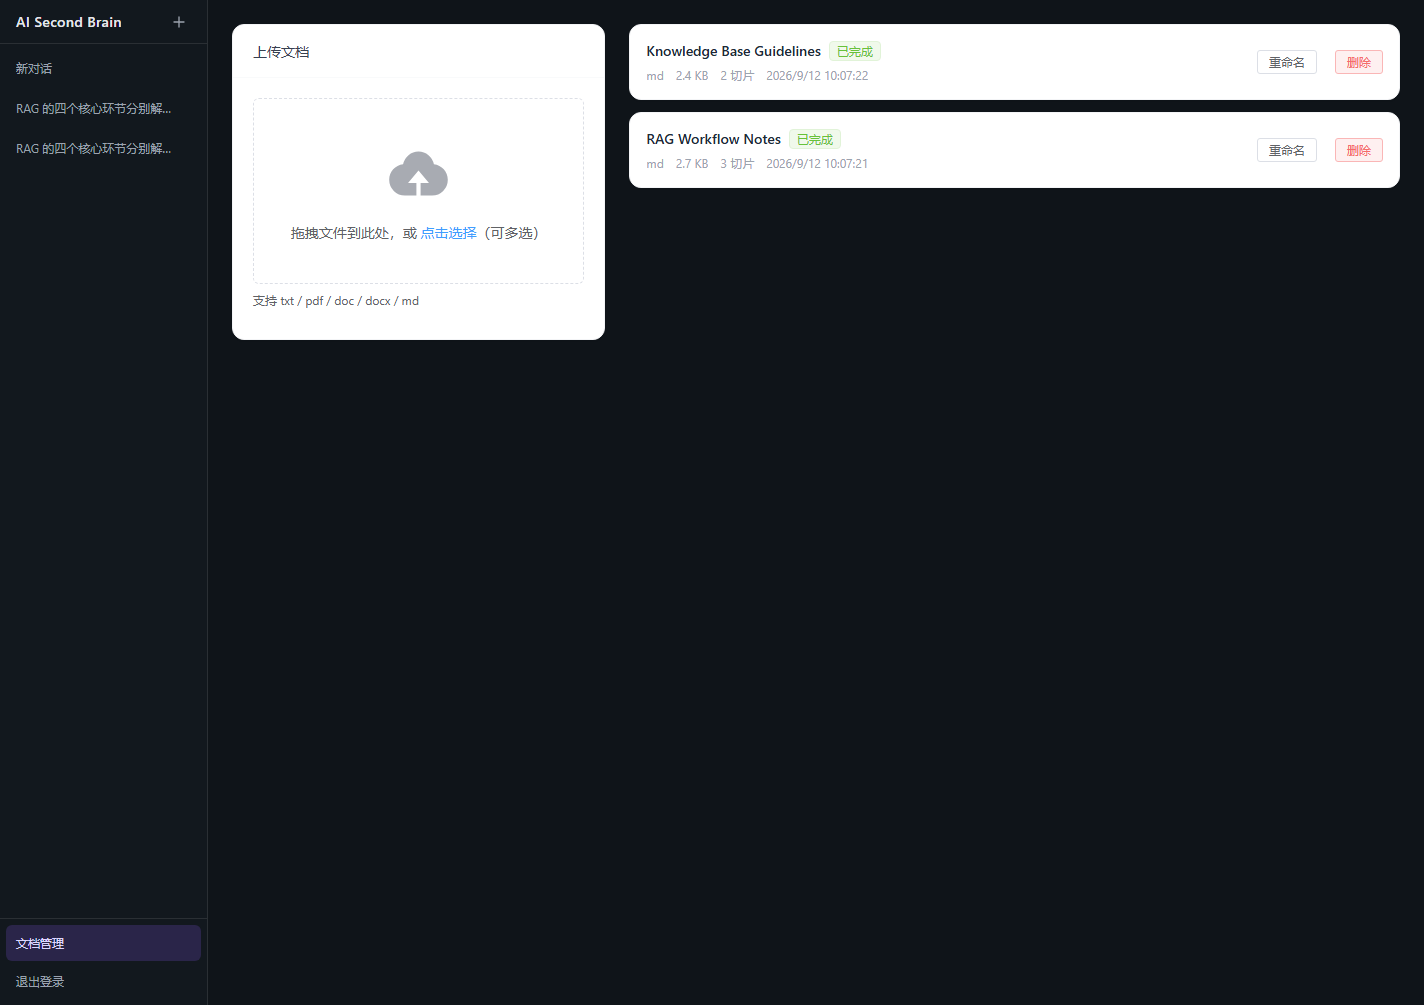
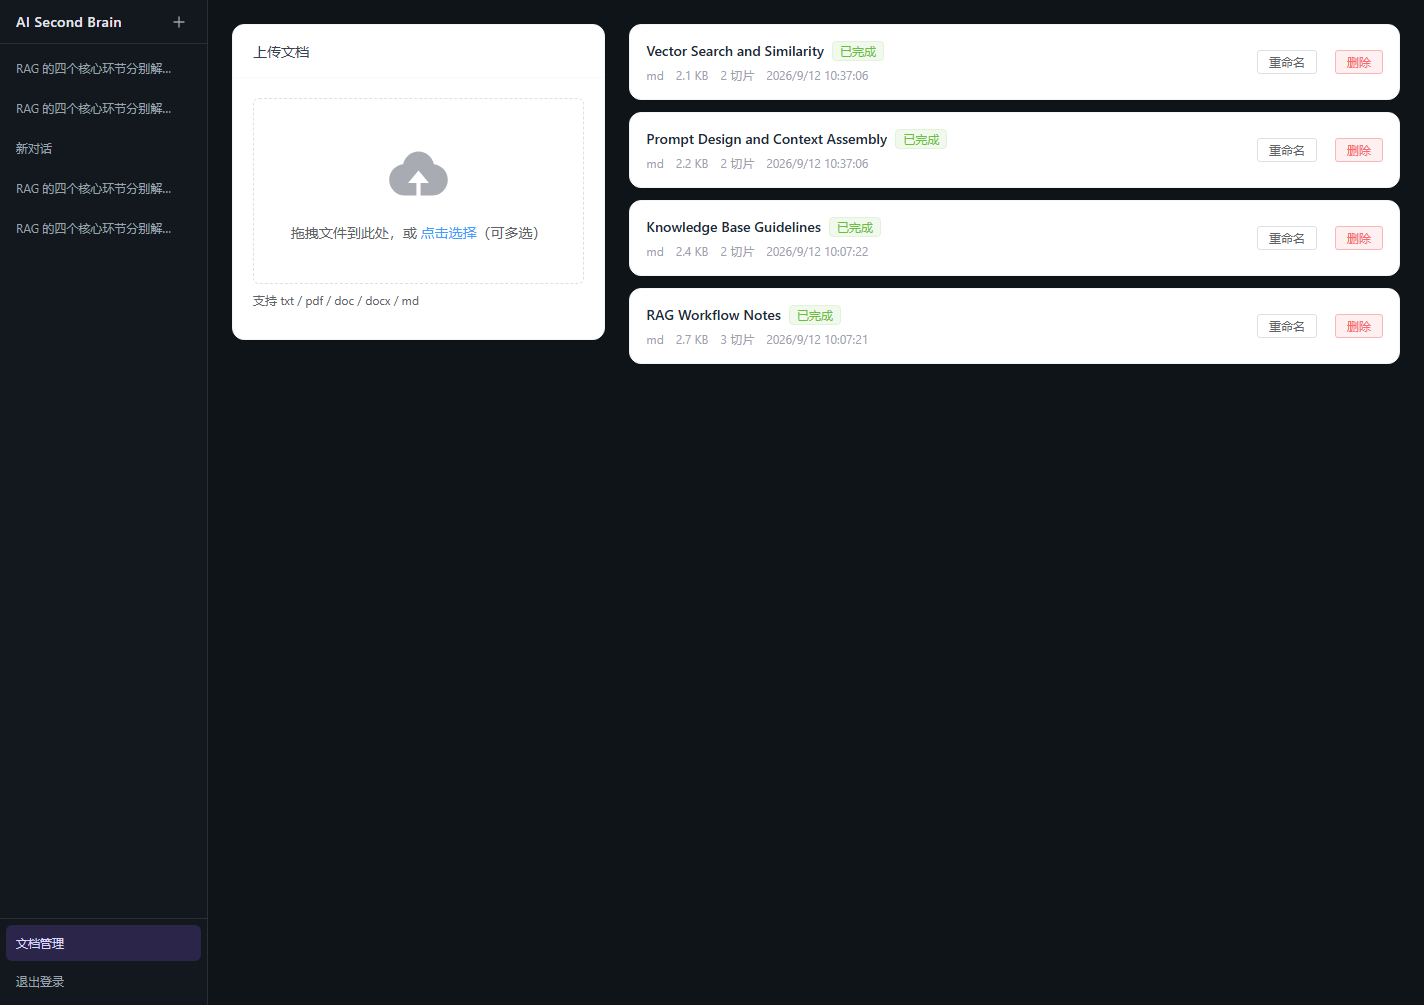
feat: add the AI Second Brain retrieval chat screenshot

diff --git a/project/frontend/src/App.vue b/project/frontend/src/App.vue
@@ -3,7 +3,7 @@ import { computed, onMounted, onUnmounted, ref } from 'vue'
 
 const fallbackProjects = [
   { id: 1, slug: 'ai-translator', title: 'LexiFlow', summary: '面向英语学习者的无广告翻译与生词学习工具，把一次翻译延展为可持续的学习闭环。', background: '翻译、收藏、复习和统计共同组成学习闭环。', outcome: '已实现核心闭环，等待补齐正式发布证据。', role: '产品设计、全栈开发、部署与验证规划', projectType: 'AI 产品 / 学习工具', project_type: 'INDEPENDENT', status: '已实现 · 待补正式发布证据', tags: ['FastAPI', 'Vue 3', '学习闭环'], image: '/assets/v5/translator-home.png', visualKind: 'screenshot', evidence: '3 张已核验截图 · 引擎降级提示的证据待补', gallery: [{ src: '/assets/v5/translator-home.png', step: 'STEP 01 / 入口', caption: '首页「每日一词」。把工具的入口前置成每天可以回访的学习动作，而不是一次性的翻译框。' }, { src: '/assets/v5/lexiflow-translate-result.png', step: 'STEP 02 / 核心链路', caption: '真实翻译结果。输入一句英文，模型返回中文译文，下方列出可继续查词的高频词。截图取自本地实跑，不是设计稿。' }, { src: '/assets/v5/lexiflow-quota-limit.png', step: 'STEP 03 / 边界处理', caption: '匿名游客每日 3 次免费翻译，用完后不静默失败，而是引导登录。配额按匿名标识独立计数，登录用户不受限。' }] },
-  { id: 2, slug: 'ai-second-brain', title: 'AI Second Brain', summary: '从文档解析到 SSE 对话的个人知识库系统，让私有资料真正参与日常问答。', background: '把文档上传、切片、检索和流式对话连接起来。', outcome: '已完成独立项目闭环，正在整理公开版本证据。', role: '产品建模、Java 全栈开发、测试与部署', projectType: 'AI 产品 / 知识库 RAG', project_type: 'SOLO', status: '已实现 · 发布前复核', tags: ['RAG', 'Spring Boot', 'SSE'], image: '/assets/v5/brain-chat.png', visualKind: 'screenshot', evidence: '3 张已核验截图 · 新建会话发送首条消息的前端渲染缺陷待修', gallery: [{ src: '/assets/v5/secondbrain-login.png', step: 'STEP 01 / 身份入口', caption: '登录页。系统区分管理员与普通用户，文档、会话与模型配置按账号隔离，不共用同一份数据。' }, { src: '/assets/v5/brain-documents.png', step: 'STEP 02 / 文档管理', caption: '文档上传与处理状态。上传后经过解析、递归切片和本地 BGE 向量化，页面上显示每个文档的切片数量。截图为演示账号，未包含真实资料。' }, { src: '/assets/v5/brain-chat.png', step: 'STEP 03 / 核心链路', caption: '知识库对话。回答基于检索到的文档片段生成，并以 SSE 流式返回，下方可展开引用与相似度分数。' }] },
+  { id: 2, slug: 'ai-second-brain', title: 'AI Second Brain', summary: '从文档解析到 SSE 对话的个人知识库系统，让私有资料真正参与日常问答。', background: '把文档上传、切片、检索和流式对话连接起来。', outcome: '已完成独立项目闭环，正在整理公开版本证据。', role: '产品建模、Java 全栈开发、测试与部署', projectType: 'AI 产品 / 知识库 RAG', project_type: 'SOLO', status: '已实现 · 发布前复核', tags: ['RAG', 'Spring Boot', 'SSE'], image: '/assets/v5/brain-chat.png', visualKind: 'screenshot', evidence: '3 张已核验截图 · 均为独立演示账号采集，不含真实资料', gallery: [{ src: '/assets/v5/secondbrain-login.png', step: 'STEP 01 / 身份入口', caption: '登录页。系统区分管理员与普通用户，文档、会话与模型配置按账号隔离，不共用同一份数据。' }, { src: '/assets/v5/brain-documents.png', step: 'STEP 02 / 文档管理', caption: '文档上传与处理状态。上传后经过解析、递归切片和本地 BGE 向量化，页面上显示每个文档的切片数量。截图为演示账号，未包含真实资料。' }, { src: '/assets/v5/brain-chat-cited.png', step: 'STEP 03 / 核心链路', caption: '知识库对话。回答基于检索到的片段生成，并给出引用片段与相似度分数；这份材料只覆盖了问题的一部分，回答就明确说明缺失，而不是编造补全。' }] },
   { id: 3, slug: 'zhiheng-teaching', title: '高中个性化教学平台 · 知衡', summary: '围绕题库、考试、掌握度、错题和练习构建三角色教学分析闭环。', background: '用清晰的数据流连接管理员、老师和学生的日常工作。', outcome: '高保真原型，尚未进入正式开发。', role: '产品定义、信息架构、交互原型与验收设计', projectType: '业务原型 / 教学分析', project_type: 'PROTOTYPE', status: '高保真原型 · 未进入开发', tags: ['原型', '三角色', '数据闭环'], image: '/assets/v5/teaching-home.png', visualKind: 'screenshot', evidence: '2 张原型截图 · 三角色视图与掌握度分析的证据待补', gallery: [{ src: '/assets/v5/teaching-home.png', step: 'STEP 01 / 管理员视角', caption: '题库管理看板：题目总数、已录入知识点、待审题目与最近录入。覆盖管理员、老师、学生三种角色的入口差异。' }, { src: '/assets/v5/teaching-knowledge.png', step: 'STEP 02 / 数据基础', caption: '知识点学习路径。把知识点组织成可追踪的路径，作为掌握度、错题与练习推荐的数据基础。' }] },
   { id: 4, slug: 'university-news', title: '大学新闻网', summary: 'PC 管理端、移动 Web 与微信小程序共享后端 API 的校园新闻系统。', background: '合作项目，覆盖内容管理、多端展示和文件存储。', outcome: '已授权展示，个人贡献边界待补充。', role: '个人负责范围待确认；此处仅记录团队项目能力', projectType: '内容平台 / 多端体验', project_type: 'COLLABORATIVE', status: '已授权展示 · 贡献边界待补充', tags: ['合作', '多端', '内容管理'], image: '/assets/v5/news-cover.png', visualKind: 'layout', evidence: '当前仅有设计版式 · 截图需先确认团队授权与贡献边界', gallery: [{ src: '/assets/v5/news-cover.png', step: 'STEP 01 / 展示边界', caption: '这一张是设计版式，不是系统截图。合作项目在取得团队授权前，不使用学校实景与具体新闻内容，个人贡献边界同样待确认。' }] },
 ]

diff --git a/doc/20-portfolio-vue-migration.md b/doc/20-portfolio-vue-migration.md
@@ -60,7 +60,7 @@
 | 案例 | 图组 | 证据状态 |
 |---|---|---|
 | LexiFlow | 入口（每日一词）→ 核心链路（真实翻译结果）→ 边界处理（游客配额耗尽引导登录） | 3 张已核验截图；引擎降级提示的证据待补 |
-| AI Second Brain | 身份入口（登录）→ 文档管理（演示账号）→ 核心链路（SSE 对话与引用） | 3 张已核验截图；新建会话首条消息的前端渲染缺陷待修 |
+| AI Second Brain | 身份入口（登录）→ 文档管理（演示账号）→ 核心链路（检索对话与引用） | 3 张已核验截图；全部由独立演示账号采集，不含真实资料 |
 | 知衡教学平台 | 管理员视角（题库看板）→ 数据基础（知识点路径） | 2 张原型截图；三角色视图与掌握度分析的证据待补 |
 | 大学新闻网 | 展示边界（设计版式，非系统截图） | 仅设计版式；截图需先确认团队授权与贡献边界 |
 
@@ -75,21 +75,35 @@
   均标记为私有；经解析、递归切片（500/50）与本地 BGE 向量化，产生 3 + 2 共 5 个片段。
   向量化在本机完成，不产生外部调用费用。
 
-采集过程中的两项发现：
+采集过程中的两项发现与处置：
 
 1. **跨账号检索会带上被标记为公共的文档。** 检索条件是 `s.user_id = ? OR d.is_public = 1`，
    而数据库中有 3 篇文档 `is_public = 1`。因此演示账号提问时，返回的引用里混入了
-   作者本人的项目说明文档正文。采集脚本在写入截图前设置了引用来源校验，该张截图未被采用。
-   这条规则是否符合预期需要项目所有者确认：如果「设为公共」的本意是跨账号共享，则属于设计；
-   如果只是本机调试遗留，则应清理该标记。
+   作者本人的项目说明文档正文。采集脚本在写入截图前设置了**内容级**校验
+   （检测只出现在他人文档中的特征短语），该张截图未被采用。
+   经项目所有者确认，「设为公共」是设计意图，因此不修改该标记；
+   采集时采用临时置私有、采集后立即还原的方式，全程只改动 `is_public` 一个字段的 3 行，
+   并在结束后校验还原结果与原值一致。附带观察：公共文档参与跨账号检索会挤占召回名额，
+   使演示账号的回答质量下降，这是该设计的一个真实代价。
 2. **新建会话发送首条消息时前端会崩溃。** `useChat.js:85` 记录 AI 占位消息下标，
    `useChat.js:98-101` 在后端自动创建会话时更新 `currentSessionId` 并刷新会话列表，
-   占位消息随之被替换，`useChat.js:105` 再按旧下标追加内容时读到 `undefined`，
+   触发 `watch` 调用 `loadMessages`，而 `loadMessages:51` 会**整体替换** `messages` 数组，
+   把尚未填充完的 AI 占位消息一起冲掉；第 105 行再按旧下标追加内容时读到 `undefined`，
    界面显示 `Cannot read properties of undefined (reading 'content')`。
    触发条件为全新会话的首条消息；已有会话内追问不受影响。
    经同步接口 `/chat/send` 与流式接口 `/chat/stream` 直接验证，后端两个接口本身均正常。
 
-因此本次只新增了文档管理页截图，对话页沿用此前已核验的截图。
+   修复（已提交到该项目）：
+
+   - 新增 `streamingSessionId`，记录本轮流式请求期间由后端自动创建的会话 ID。
+   - `watch` 在该 ID 上跳过重载，避免覆盖正在接收的 AI 消息。
+   - `onMetadata`、`onDelta`、`onError` 改为先取值判空再写入，不再裸下标访问。
+   - `onDone` / `onError` 结束时清除该标记，保证后续正常切换会话不受影响。
+
+   修复后复跑采集，对话正常流式渲染，引用面板可展开，未再出现该错误。
+
+最终新增文档管理页与检索对话两张截图，对话页展示的是材料不足时明确说明缺失、
+而不是编造补全的行为；三条引用片段全部来自演示账号自有的演示文档。
 
 ### LexiFlow 边界证据采集过程（2026-09-10）
 
